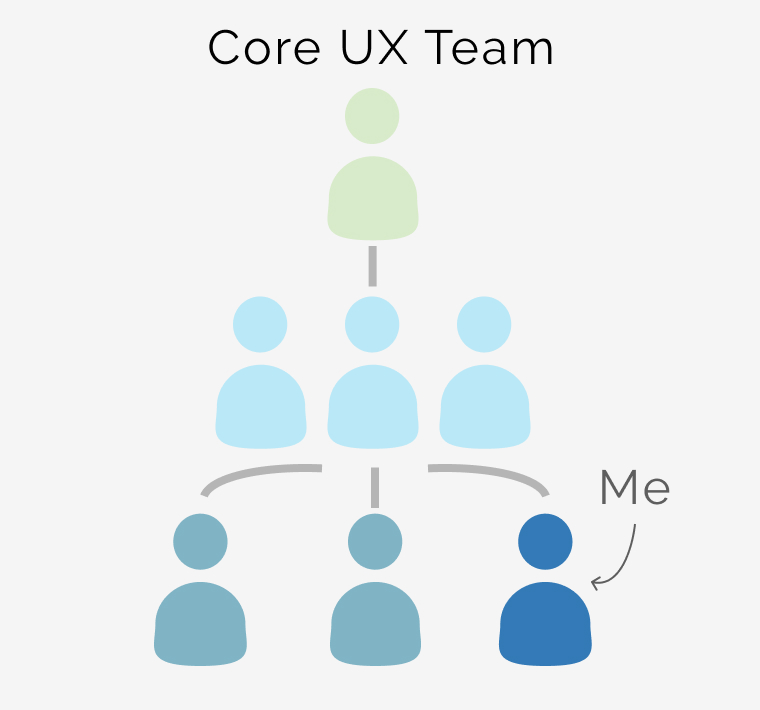
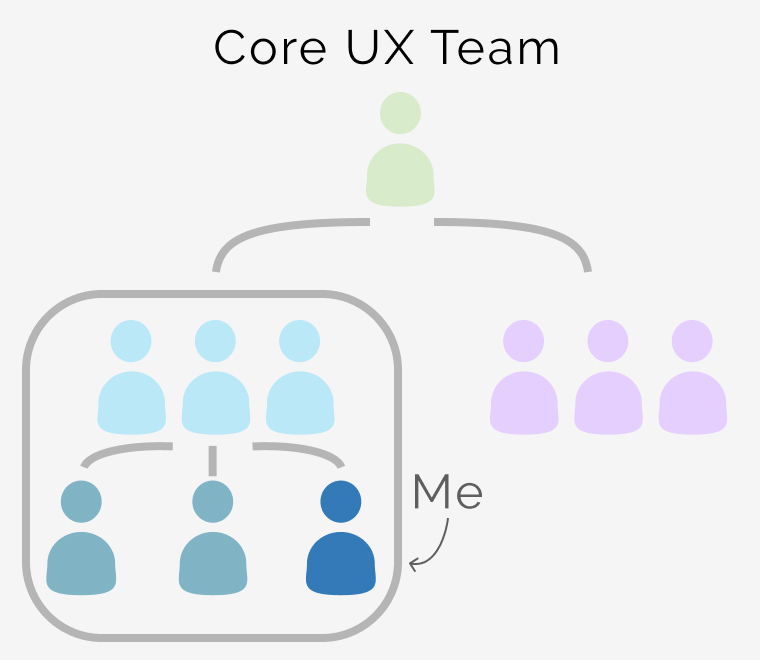
replace team graphic and add updated text

diff --git a/sraintern.html b/sraintern.html
@@ -26,7 +26,7 @@
           <img src="assets/covers/samsungintern-cover.jpg" />
         </div>
         <div class="heroTitle">
-          <h2>XR Experiences Samsung Research America Intern</h2>
+          <h2>XR Experiences Samsung Research America</h2>
           <p>UX Design, XR, AI, Avatars</p>
           <p>
             Designed and developed potential use cases and prototypes to
@@ -63,11 +63,13 @@
             <p class="numberoffwhite">1</p>
             <div class="">
               <p class="keypoint-bold">
-                Completed 2 end-to-end proof of concept prototypes
+                <strong
+                  >Designed 2 end-to-end proof of concept prototypes</strong
+                >
               </p>
               <p>
-                seamlessly integrating cutting-edge technologies to enhance user
-                experience and streamline research processes.
+                seamlessly designed and integrating cutting-edge technologies to
+                enhance user experience and streamline research processes.
               </p>
             </div>
           </div>
@@ -79,8 +81,8 @@
                 inform the design process
               </p>
               <p>
-                ensuring that both prototypes effectively addressed the unique
-                needs and workflows of the research lab's diverse user base.
+                Ensure prototypes effectively addressed the unique needs and
+                workflows of the research lab's diverse user base.
               </p>
             </div>
           </div>
@@ -92,7 +94,7 @@
                 engineers, and project managers
               </p>
               <p>
-                iteratively refine and optimize the prototypes based on
+                Iteratively refine and optimize the prototypes based on
                 stakeholder feedback and project requirements, demonstrating
                 adaptability and effective communication in a collaborative UX
                 design environment.
@@ -114,21 +116,15 @@
             <path d="M0 3H202" stroke="#337AB7" stroke-width="5" />
           </svg>
           <p>
-            Samsung Research America, is Samsung Electronics’ American lab where
-            they develop a range of technologies for their solutions.
+            Samsung Research America, is Samsung Electronics’ American research
+            labs where they develop a range of technologies for their solutions.
+            Our team sat under the mobile platform solutions lab.
           </p>
           <p>
-            My team was asked to create potential use cases for solutions that
-            demonstrates the breath of capacities of the technology helping
-            identified users.
+            My team identified potential use cases for solutions that
+            demonstrates the breathe of the technology to help identified users.
           </p>
         </div>
-        <!-- <div>
-          <img
-            class="largeImage"
-            src="assets/knownsource/known-source-usp.png"
-          />
-        </div> -->
       </div>
       <div class="section">
         <div class="twocolumn">
@@ -144,12 +140,12 @@
               <path d="M0 3H202" stroke="#337AB7" stroke-width="5" />
             </svg>
             <p>
-              I was the ux designer and researcher on a team of 2 designers, 1
-              engineer, 3 tech artists, 1 supervisor, and 3 leads.
+              I was the ux designer and researcher on a team of 1 supervisor, 3
+              leads, 2 designers, 1 engineer, 3 tech artists.
             </p>
             <p>
-              I was in charge of leading communicating with our supervisor for
-              advocating our designs.
+              I was the main point of contact in communicating and advocating
+              for our design decision.
             </p>
             <p>Focus</p>
             <ul>
@@ -163,14 +159,14 @@
           </div>
           <div class="sectionimagecolumn">
             <img
-              class="largeImage"
+              class="mediumImage"
               src="assets/sraintern/team-comp-graphic.jpg"
             />
           </div>
         </div>
       </div>
-      <div class="section grayaccent">
-        <div class="p-blurb">
+      <div class="section grayaccent padgray">
+        <div class="sectionHead">
           <h2>Design Process</h2>
           <svg
             xmlns="http://www.w3.org/2000/svg"
@@ -181,9 +177,20 @@
           >
             <path d="M0 3H202" stroke="#337AB7" stroke-width="5" />
           </svg>
+        </div>
+        <div class="sectionimagecolumn">
+          <picture class="designprocesspicture">
+            <!-- <source srcset="assets/sraintern/design_process.webp" /> -->
+            <img
+              class="designprocessmobile"
+              src="assets/sraintern/design_processvertical.png"
+              alt="diagram of steps of design process, understand, research, analyze, design, user test, then present"
+            />
+          </picture>
           <picture>
             <source srcset="assets/sraintern/design_process.webp" />
             <img
+              class="designprocessimg"
               src="assets/sraintern/design_process.png"
               alt="diagram of steps of design process, understand, research, analyze, design, user test, then present"
             />
@@ -194,7 +201,7 @@
         <!-- <div class="twocolumn"> -->
         <div class="p-blurb">
           <div>
-            <h2>Prompt</h2>
+            <h2>Brief</h2>
             <svg
               xmlns="http://www.w3.org/2000/svg"
               width="202"
@@ -204,17 +211,14 @@
             >
               <path d="M0 3H202" stroke="#337AB7" stroke-width="5" />
             </svg>
-            <p>
-              Each prompt was different based on the user, technology, and
-              goals.
-            </p>
+            <p>Each brief revolved around the user, technology, and goals.</p>
             <h4>Objective</h4>
             <ul>
-              <li>Research trends and determine highest value use cases</li>
+              <li>Research trends and determine highest value use cases.</li>
               <li>
                 Develop proof of concept prototype solutions with technology to
-                showcase to stakeholders and share for further development of
-                product.
+                showcase to stakeholders and share for further development a
+                solution.
               </li>
             </ul>
           </div>
@@ -223,7 +227,7 @@
       </div>
       <div class="section grayaccent">
         <div class="p-blurb">
-          <h2>Understanding Problems</h2>
+          <h2>Problem Defintion</h2>
           <svg
             xmlns="http://www.w3.org/2000/svg"
             width="202"
@@ -233,11 +237,10 @@
           >
             <path d="M0 3H202" stroke="#337AB7" stroke-width="5" />
           </svg>
-          <p>Our director provides</p>
-          <ul>
-            <li>a type of user to target</li>
-            <li>a technology and solution we want to showcase</li>
-          </ul>
+          <p>
+            After considering the user and the technology we want to target, We
+            selected these 4 research methodologies to best suit the brief.
+          </p>
           <div class="sectionimagecolumn">
             <picture>
               <source srcset="assets/sraintern/research_circle.webp" />
@@ -268,12 +271,12 @@
             >
               <path d="M0 3H202" stroke="#337AB7" stroke-width="5" />
             </svg>
-            <p>From our research we ideation to create use cases.</p>
+            <p>From our research, we ideated on use cases.</p>
             <p>
-              A scenario and user journey are created of how the user would
-              benefit from our proposed concept.
+              Using figma, we organized the information, analyzing the benefits
+              for our proposed use case.
             </p>
-            <p>This gives us insight to opportunities to explore.</p>
+            <p>This gave insight to opportunities to explore.</p>
           </div>
           <div class="sectionimagecolumn">
             <picture>
@@ -285,6 +288,10 @@
                 loading="lazy"
               />
             </picture>
+            <p>
+              *Due to the confidentially of the technology, certain information
+              is deliberately left blank in these representations.
+            </p>
           </div>
         </div>
       </div>
@@ -301,14 +308,22 @@
             <path d="M0 3H202" stroke="#337AB7" stroke-width="5" />
           </svg>
           <p>
-            Creating a user journey of a scenario and tasks to do gives an idea
-            of pain-points and opportunities of
-            <strong>how completing it in XR benefits users.</strong>
+            We assessed existing solutions for a specific goal, mapping user
+            journeys to identify tasks required for goal completion.
+          </p>
+          <p>
+            Analyzing these user journeys exposed pain points and potential
+            improvement opportunities for each method, influencing our
+            considerations for alternative solutions.
           </p>
           <picture>
             <source srcset="assets/sraintern/current_solutions.webp" />
             <img src="assets/sraintern/current_solutions.jpg" />
           </picture>
+          <p>
+            *Due to the confidentially of the technology, certain information is
+            deliberately left blank in these representations.
+          </p>
         </div>
       </div>
       <div class="section grayaccent">
@@ -349,10 +364,10 @@
             >
               <path d="M0 3H202" stroke="#337AB7" stroke-width="5" />
             </svg>
-            <p>Each specific feature is placed on a spreadsheet.</p>
+            <p>Each specific feature was placed on a decision matrix.</p>
             <p>
-              We assign points based on how closely they align with our goals
-              for the user and the technology.
+              We assigned points based on how closely they align with our goals
+              for the user, the technology, and overall.
             </p>
           </div>
           <div class="sectionimagecolumn">
@@ -380,7 +395,10 @@
           >
             <path d="M0 3H202" stroke="#337AB7" stroke-width="5" />
           </svg>
-          <p>Create a clear breakdown of the features and goals targeted.</p>
+          <p>
+            After deciding features, a clear breakdown was created of how each
+            feature benefits the user and what the use case is.
+          </p>
           <picture>
             <source srcset="assets/sraintern/benefit_graphic.webp" />
             <img src="assets/sraintern/benefit_graphic.jpg" />
@@ -422,8 +440,8 @@
             <path d="M0 3H202" stroke="#337AB7" stroke-width="5" />
           </svg>
           <p>
-            At different steps of the design process, my team used Blender,
-            Shape XR, or Unity to iterate on designs.
+            My team used Blender, Shape XR, and Unity in different stages of the
+            design process to iterate on designs based on their capabilities.
           </p>
         </div>
         <div class="threecolumnbig">
@@ -476,43 +494,59 @@
             </ul>
           </div>
         </div>
-      </div>
-      <div class="section grayaccent">
-        <div class="p-blurb">
-          <h2>Prototype</h2>
-          <svg
-            xmlns="http://www.w3.org/2000/svg"
-            width="202"
-            height="6"
-            viewBox="0 0 202 6"
-            fill="none"
-          >
-            <path d="M0 3H202" stroke="#337AB7" stroke-width="5" />
-          </svg>
+        <div class="">
+          <h4>Asset Creation</h4>
           <p>
-            Each of our projects had their own functional unity prototype. They
-            were demoed to our supervisor at the end of the project cycle.
+            UI and storyboards are created and collaborated on in figma to
+            ensure consistency through the process.
           </p>
         </div>
       </div>
-      <div class="section">
+
+      <div class="section blackaccent">
         <div class="p-blurb">
-          <h2>Presentation</h2>
-          <svg
-            xmlns="http://www.w3.org/2000/svg"
-            width="202"
-            height="6"
-            viewBox="0 0 202 6"
-            fill="none"
-          >
-            <path d="M0 3H202" stroke="#337AB7" stroke-width="5" />
-          </svg>
-          <p>
-            As part of check-ins our team prepared weekly slide deck
-            presentations to outline features and communicate across our org.
-          </p>
+          <h3>Outcomes</h3>
+          <div class="keypoint">
+            <p class="numberoffwhite">1</p>
+            <div class="">
+              <p class="keypoint-bold">
+                <strong>Research to Inform Design</strong>
+              </p>
+              <p>
+                Leveraged comprehensive research findings to identify key use
+                cases and executed low-fidelity to high-fidelity prototypes.
+                This approach ensured a thorough exploration of design
+                possibilities and a refined user experience for the final
+                product.
+              </p>
+            </div>
+          </div>
+          <div class="keypoint">
+            <p class="numberoffwhite">2</p>
+            <div class="">
+              <p class="keypoint-bold">Consistency and Communication</p>
+              <p>
+                Established a consistent and transparent communication channel
+                by delivering weekly update presentations to the supervisor,
+                ensuring a well-informed and engaged project management process
+                throughout the UX internship.
+              </p>
+            </div>
+          </div>
+          <div class="keypoint">
+            <p class="numberoffwhite">3</p>
+            <div class="">
+              <p class="keypoint-bold">Innovation and Creativity</p>
+              <p>
+                Introducing novel concepts and solutions that garnered positive
+                feedback, ultimately elevating the overall project impact and
+                user experience.
+              </p>
+            </div>
+          </div>
         </div>
       </div>
+
       <div class="section grayaccent">
         <div class="p-blurb">
           <h2>Postmortem</h2>
@@ -537,10 +571,8 @@
             not as essential features to show bite-sized successes before
             tackling everything a user might need.
           </p>
-
-          <hr />
+          <!-- <hr />
           <h4>Where I left SRA</h4>
-
           <p>I left with 3 projects successful prototypes completed.</p>
           <h4>What I would do next</h4>
           <p>
@@ -548,7 +580,7 @@
             on building out more features, but it would need to get picked up by
             a development team to continue working on them. I would have
             continued to given new solutions to create.
-          </p>
+          </p> -->
         </div>
       </div>
       <div class="backbutton">
